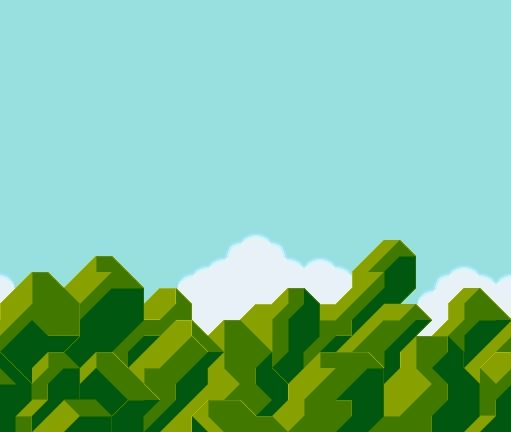
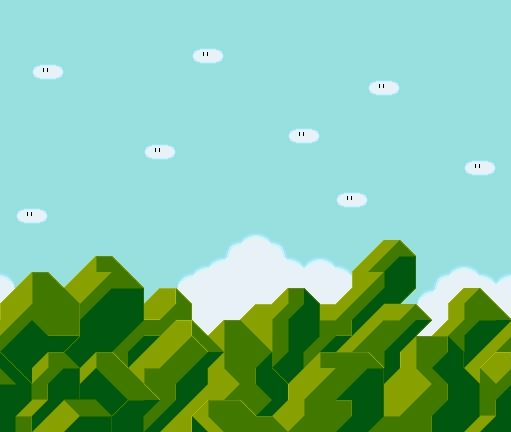
background, bushes e ground atualizados

diff --git a/src/screens/game/styled.js b/src/screens/game/styled.js
@@ -1,6 +1,7 @@
 import styled from "styled-components";
 
 import background_game from "../../assets/background_game.png";
+import ground_img from "../../assets/ground.png";
 
 export const GameContainer = styled.div`
   background: url(${background_game}) repeat-x;
@@ -8,6 +9,7 @@ export const GameContainer = styled.div`
 
   width: 100%;
   max-width: 600px;
+  min-width: 371px;
   margin: 0 auto;
   height: 300px;
   border: 5px solid blue;
@@ -15,17 +17,17 @@ export const GameContainer = styled.div`
   box-shadow: inset 0px -7px #ca945d;
   position: relative;
   overflow: hidden;
-  background-position: -343px 0px;
+  //background-position: -343px -30px;
 
   animation: screenTransition 1s;
-  animation: backgroundAnimation 3s infinite linear;
+  animation: backgroundAnimation 4s infinite linear;
 
   @keyframes backgroundAnimation {
     from {
-      background-position: 0px 0px;
+      background-position: 0px -17px;
     }
     to {
-      background-position: -343px 0px;
+      background-position: -343px -17px;
     }
   }
 
@@ -60,6 +62,28 @@ export const GameContainer = styled.div`
 
     @media (max-width: 480px) {
       max-width: 28px;
+    }
+  }
+`;
+
+export const Ground = styled.div`
+  background: url(${ground_img}) repeat-x;
+  background-size: cover;
+  width: 100%;
+  max-width: 600px;
+  height: 100px;
+  position: absolute;
+  bottom: 0px;
+  background-position: -1203px bottom;
+
+  animation: groundAnimation 4s infinite linear;
+
+  @keyframes groundAnimation {
+    from {
+      background-position: 0 bottom;
+    }
+    to {
+      background-position: -1203px bottom;
     }
   }
 `;
@@ -99,76 +123,11 @@ export const GameOver = styled.span`
   }
 `;
 
-export const Clouds = styled.img`
-  width: 100%;
-  max-width: 340px;
-  position: absolute;
-  top: 10px;
-
-  filter: opacity(90%);
-
-  animation: cloudsAnimation 60s infinite linear; //60
-
-  @keyframes cloudsAnimation {
-    from {
-      left: 100vw;
-    }
-    to {
-      left: -100vw;
-    }
-  }
-
-  @media (min-width: 480px) {
-    @keyframes cloudsAnimation {
-      from {
-        left: 36vw;
-      }
-      to {
-        left: -25vw;
-      }
-    }
-  }
-`;
-
-export const Bushes = styled.img`
-  width: 100%;
-  max-width: 323.2px;
-
-  position: absolute;
-  bottom: 2px;
-
-  animation: bushesAnimation 4.5s infinite linear;
-
-  @keyframes bushesAnimation {
-    from {
-      left: 150vw;
-    }
-    to {
-      left: -100vw;
-    }
-  }
-
-  @media (min-width: 480px) {
-    max-width: 280px;
-
-    animation-duration: 4s;
-
-    @keyframes bushesAnimation {
-      from {
-        left: 50vw;
-      }
-      to {
-        left: -20vw;
-      }
-    }
-  }
-`;
-
 export const Bullet = styled.img`
   width: 100%;
   max-width: 70px;
   position: absolute;
-  bottom: 10px;
+  bottom: 25px;
 
   z-index: 100;
 
@@ -201,7 +160,7 @@ export const Mario = styled.img`
   width: 100%;
   max-width: 32px;
   position: absolute;
-  bottom: 1px;
+  bottom: 17px;
   left: 50px;
 
   z-index: 200;
@@ -214,7 +173,7 @@ export const Mario = styled.img`
       bottom: 200px;
     }
     100% {
-      bottom: 1px;
+      bottom: 17px;
     }
   }
 
@@ -226,7 +185,7 @@ export const Mario = styled.img`
         bottom: 160px;
       }
       100% {
-        bottom: 0;
+        bottom: 17px;
       }
     }
   }

diff --git a/src/screens/game/index.jsx b/src/screens/game/index.jsx
@@ -3,16 +3,13 @@ import { useNavigate } from "react-router-dom";
 
 import {
   GameContainer,
+  Ground,
   Score,
   GameOver,
-  Clouds,
-  Bushes,
-  Bullet,
   Mario,
+  Bullet,
 } from "./styled";
 
-import clouds_img from "../../assets/clouds.png";
-import bushes_img from "../../assets/bushes.png";
 import mario_img from "../../assets/mario.gif";
 import mario_jump_img from "../../assets/mario_jump.gif";
 import mario_dead_img from "../../assets/mario_dead.gif";
@@ -26,15 +23,17 @@ const Game = () => {
   const navigate = useNavigate();
 
   const background = useRef();
+  const ground = useRef();
   const player = useRef();
   const enemy = useRef();
-  const bushes = useRef();
-  const clouds = useRef();
 
   //FUNCTIONS
   const getElementValues = (element) => {
     //returns string
-    if (element === background.current) {
+    const isBackground = element === background.current;
+    const isGround = element === ground.current;
+
+    if (isBackground || isGround) {
       const position = getComputedStyle(element).backgroundPosition;
       return { position };
     }
@@ -72,7 +71,10 @@ const Game = () => {
   const freezeAnimation = (element, values) => {
     element.style.animation = "none";
 
-    if (element === background.current) {
+    const isBackground = element === background.current;
+    const isGround = element === ground.current;
+
+    if (isBackground || isGround) {
       element.style.backgroundPosition = values.position;
     }
 
@@ -115,10 +117,9 @@ const Game = () => {
   useEffect(() => {
     const loop = setInterval(() => {
       const backgroundValues = getElementValues(background.current);
+      const groundValues = getElementValues(ground.current);
       const playerValues = getElementValues(player.current);
       const enemyValues = getElementValues(enemy.current);
-      const bushesValues = getElementValues(bushes.current);
-      const cloudsValues = getElementValues(clouds.current);
 
       const fixCollisionBorder = 15; //Because images have a square border
 
@@ -136,10 +137,9 @@ const Game = () => {
       //GAME OVER VERIFICATION
       if (collisionBottom && collisionFront && collisionBack) {
         freezeAnimation(background.current, backgroundValues);
+        freezeAnimation(ground.current, groundValues);
         freezeAnimation(player.current, playerValues);
         freezeAnimation(enemy.current, enemyValues);
-        freezeAnimation(bushes.current, bushesValues);
-        freezeAnimation(clouds.current, cloudsValues);
         setGameOver(true);
         clearInterval(loop);
 
@@ -157,11 +157,10 @@ const Game = () => {
 
   return (
     <GameContainer ref={background}>
+      <Ground ref={ground} />
       <Score>score: {score}</Score>
       {gameOver && <GameOver>game over</GameOver>}
 
-      <Clouds ref={clouds} src={clouds_img} alt="clouds" />
-      <Bushes ref={bushes} src={bushes_img} alt="bushes" />
       <Bullet ref={enemy} src={bullet_img} alt="bullet bill" />
 
       {!gameOver ? (

diff --git a/src/screens/about/index.jsx b/src/screens/about/index.jsx
@@ -8,8 +8,8 @@ const About = () => {
       <div>
         <p>
           My name is Vitor Leone Cezar. I developed this browser game inspired
-          by Super Mario which was a game that I've been played when I was a kid
-          and it gave me lots of happy moments.
+          by Super Mario World which was a game that I've been played when I was
+          a kid and it gave me a lot of happy moments.
         </p>
         <p>
           With focus and study I made my own Mario game and one of my childhood
